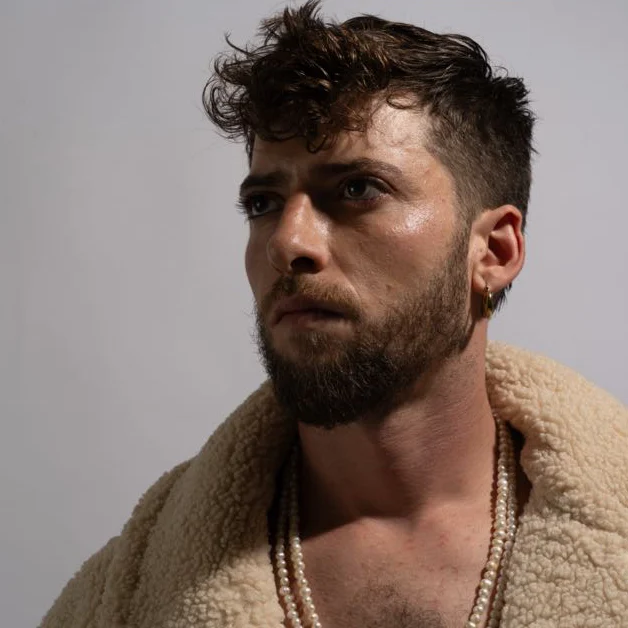
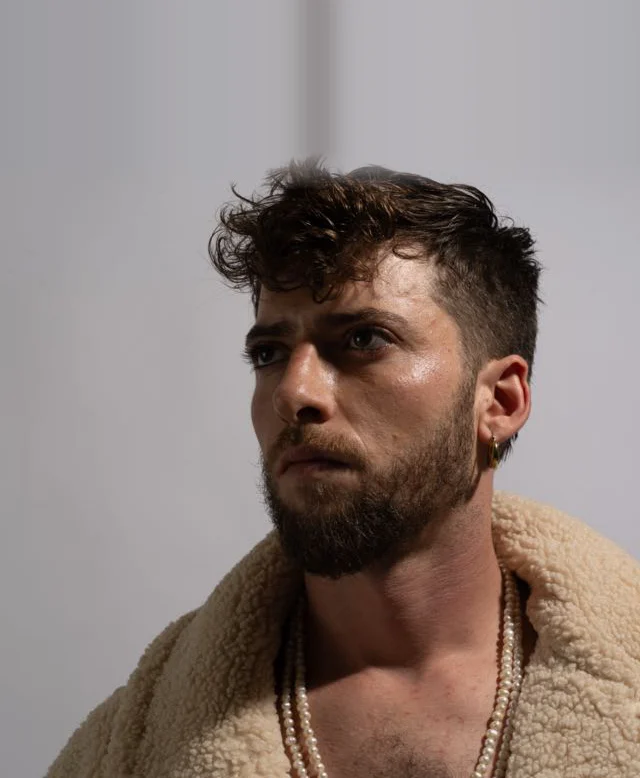
More room above the portrait
Claude-Session: https://claude.ai/code/session_01JhJDeo9zSSRfaDiWBe2EDZ

diff --git a/index.html b/index.html
@@ -83,7 +83,7 @@ section{padding-block:clamp(64px,10vw,110px)}
 .hero-grid{display:grid;grid-template-columns:1.1fr .9fr;gap:clamp(28px,5vw,64px);align-items:center}
 .hero h1 .accent{color:var(--accent)}
 .portrait{position:relative}
-.portrait img{width:100%;height:auto;aspect-ratio:1/1;object-fit:cover;border-radius:28px;box-shadow:0 30px 60px -30px rgba(40,30,20,.35)}
+.portrait img{width:100%;height:auto;aspect-ratio:640/778;object-fit:cover;border-radius:28px;box-shadow:0 30px 60px -30px rgba(40,30,20,.35)}
 .portrait .badge{position:absolute;bottom:18px;inset-inline-start:18px;background:rgba(255,255,255,.92);backdrop-filter:blur(8px);-webkit-backdrop-filter:blur(8px);border-radius:16px;padding:10px 14px;font-size:14px;line-height:1.35;box-shadow:0 8px 24px rgba(0,0,0,.08)}
 .portrait .badge b{display:block;font-size:15px}
 .meta{display:flex;flex-wrap:wrap;gap:8px 18px;margin-top:22px;font-size:14px;color:var(--soft)}
@@ -201,7 +201,7 @@ footer .wrap{display:flex;justify-content:space-between;align-items:center;flex-
       <div class="meta"><span>בדיקה ראשונה בחינם</span><span>משלמים אחרי</span><span>הנגב והדרום</span></div>
     </div>
     <div class="portrait">
-      <img src="img/yishai.webp" alt="ישי" width="628" height="628" fetchpriority="high">
+      <img src="img/yishai.webp" alt="ישי" width="640" height="778" fetchpriority="high">
       <div class="badge"><b>ישי</b>שדה בוקר</div>
     </div>
   </div>
